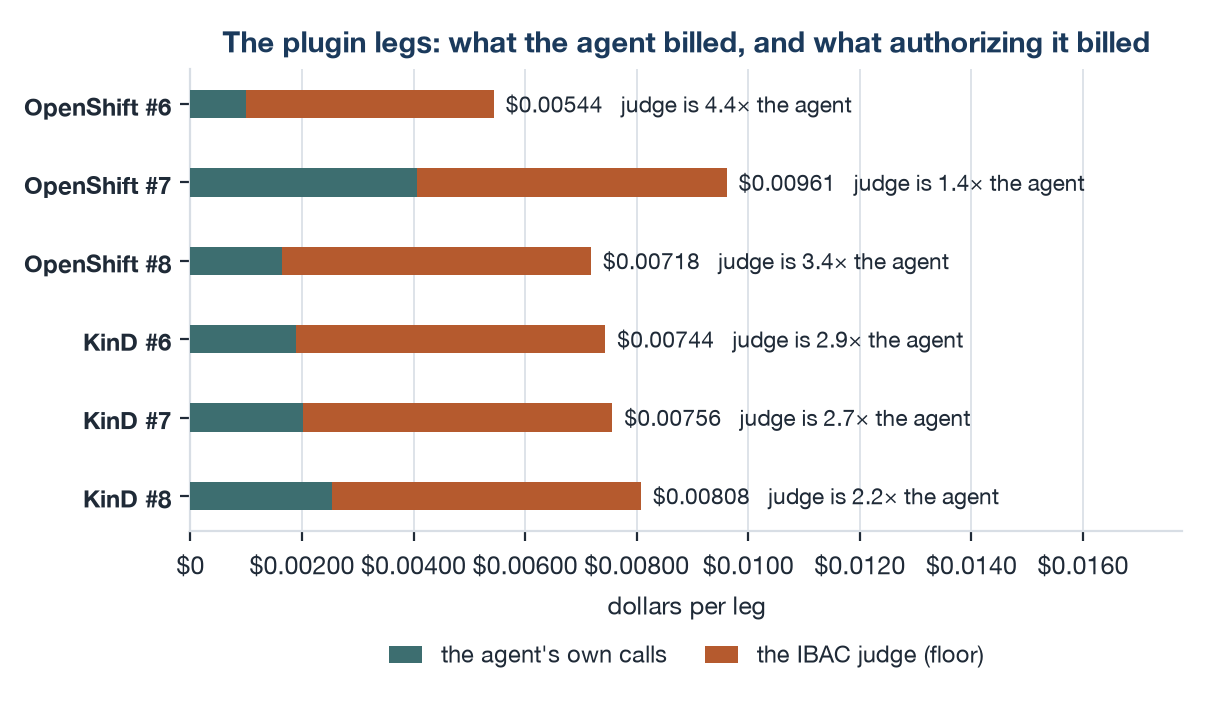
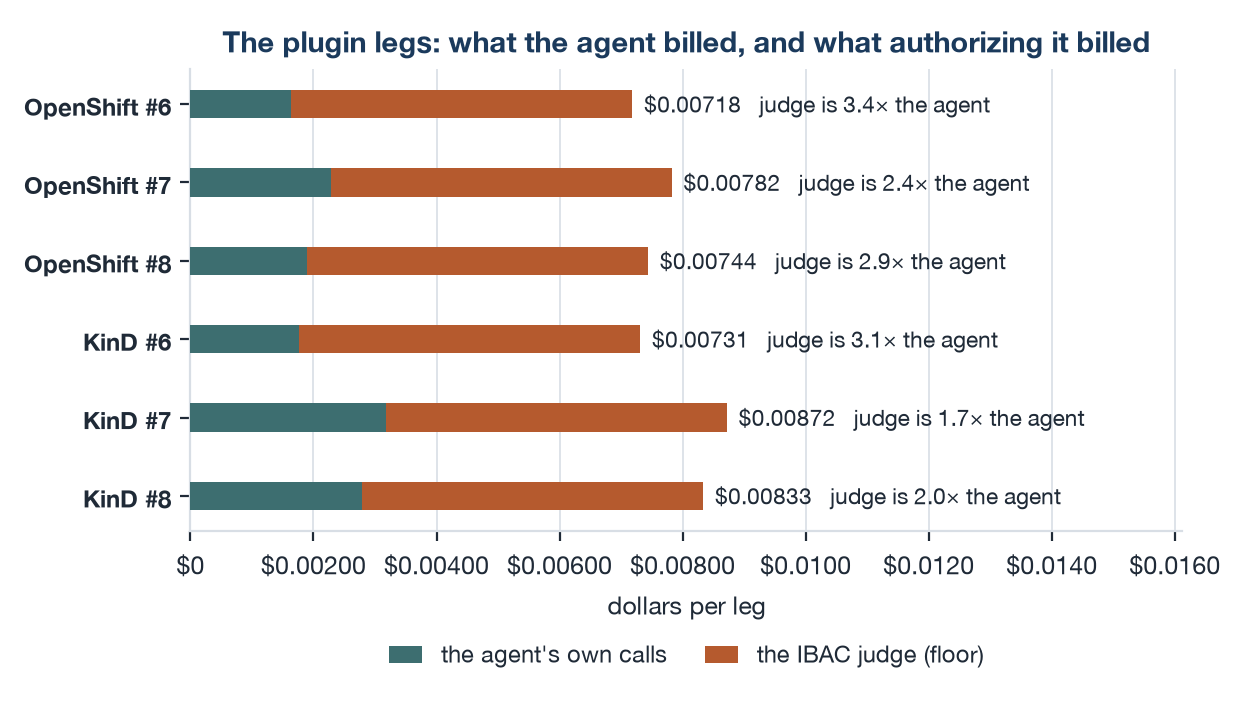
Regenerate the six cost charts on the v1.35 pair, and the text that quotes them
gen-cost-charts.py rewrites docs/img/*.png, takeaways.json (which the
deck reads) and the chart blocks in the guide and primer. The
hand-written sentences that repeat its ratios now match it: gpt-4.1
costs 4.6x gpt-5-mini on the identical five gsm8k tasks (mean over 2
legs against 8, span 3.3-6.6x), the two output bills land within 24%,
and the IBAC judge bills 1.7-3.4x what the agent does on legs #6-#8.

Assisted-By: Claude Opus 5.5 <noreply@anthropic.com>

diff --git a/docs/generate_pptx.py b/docs/generate_pptx.py
@@ -1330,14 +1330,14 @@ grid(s, inch(6.90), inch(1.30), inch(5.95), inch(2.60), [
 ], col_w=[inch(2.55), inch(1.70), inch(1.70)], font=10.5)
 
 box(s, inch(6.90), inch(4.10), inch(5.95), inch(1.75),
-    "Same five tasks: gpt-4.1 costs 4.1× gpt-5-mini",
+    "Same five tasks: gpt-4.1 costs 4.6× gpt-5-mini",
     LTPURPLE, ROSSO, font=13.5, font_color=ROSSO,
-    sub="Mean of its 2 legs against gpt-5-mini's 7; leg-to-leg the ratio spans 2.5×–6.7×, because "
+    sub="Mean of its 2 legs against gpt-5-mini's 8; leg-to-leg the ratio spans 3.3×–6.6×, because "
         "gpt-5-mini's output length swings with reasoning effort. The reasoning model answers in ONE "
         "call; gpt-4.1 needs ~3 tool round-trips. On our card the INPUT side decides it alone — 2.6× "
         "the tokens at 8× the price is a 21× input bill, and the output side cannot offset it "
-        "(gpt-5-mini emits 3.6× more output at a quarter the rate, so the two output bills land "
-        "within 10% of each other).",
+        "(gpt-5-mini emits 3.3× more output at a quarter the rate, so the two output bills land "
+        "within 24% of each other).",
     sub_color=INK)
 
 _ban = box(s, inch(0.45), inch(6.00), inch(12.4), inch(0.95),
@@ -1379,7 +1379,7 @@ box(s, inch(0.45), inch(4.55), inch(6.15), inch(2.35),
     sub="The judge makes ~1 completion per authorized tool call, on Azure/gpt-4.1 — the dearest "
         "model on the card — against a FIXED 1,577-char system prompt that does not shrink with the "
         "task. That is ≥ $0.00111 per call, which is 2.6× the entire gsm8k task it is authorizing "
-        "($0.00043), and 1.4×–4.4× the agent's whole bill across legs #6–#8. On the plugin legs IBAC "
+        "($0.00043), and 1.7×–3.4× the agent's whole bill across legs #6–#8. On the plugin legs IBAC "
         "is not overhead on the bill; it IS the bill.  tau2's user simulator is invisible the same "
         "way: same model as the agent, but inside the uninstrumented MCP pod.",
     sub_color=INK)
@@ -1463,7 +1463,7 @@ grid(s, inch(0.45), inch(1.25), inch(12.4), inch(3.30), [
      "the pipeline is stable and DETERMINISTIC: 7 of 12 legs have byte-identical input-token\n"
      "totals across two unlike clusters — the strongest like-for-like check available"),
     ("#4", "gsm8k on Azure/gpt-4.1\n(model swap, identical tasks)",
-     "the only clean model comparison in the matrix: gpt-4.1 costs 4.1× gpt-5-mini for no\n"
+     "the only clean model comparison in the matrix: gpt-4.1 costs 4.6× gpt-5-mini for no\n"
      "pass-rate gain at this difficulty, and the INPUT side decides it alone (7.7)"),
     ("#5–#8", "AuthBridge auth-only / ibac-only / full /\nfull + per-plugin override, same 5 tasks",
      "plugin cost is PLATFORM-SPECIFIC: OpenShift pays in the sidecar (+13.68 s/task), KinD in\n"

diff --git a/docs/BENCHMARKS_PRIMER.md b/docs/BENCHMARKS_PRIMER.md
@@ -459,17 +459,17 @@ IBAC judge adds.
 
 ![Money climbs the ladder faster than tokens](img/ladder-amplification.png)
 
-**Money climbs the difficulty ladder faster than tokens do: tau2 is 178× a gsm8k task in tokens but 279× in dollars, appworld is 564× a gsm8k task in tokens but 1,069× in dollars — so a budget scaled off the token ratios is short by 1.6–1.9×.**
+**Money climbs the difficulty ladder faster than tokens do: tau2 is 175× a gsm8k task in tokens but 282× in dollars, appworld is 621× a gsm8k task in tokens but 1,195× in dollars — so a budget scaled off the token ratios is short by 1.6–1.9×.**
 
-Each rung is a different model, which is why the dollar bar outruns the token bar: climbing the ladder also buys a dearer model. Wall-clock climbs SLOWEST of the three (17× tau2, 54× appworld), because the harder benchmarks parallelize their turns while their bills add up.
+Each rung is a different model, which is why the dollar bar outruns the token bar: climbing the ladder also buys a dearer model. Wall-clock climbs SLOWEST of the three (19× tau2, 87× appworld), because the harder benchmarks parallelize their turns while their bills add up.
 
-<sub>gsm8k baseline: 523 tokens, $0.00055, 4.9 s median, over 171 task rows.</sub>
+<sub>gsm8k baseline: 513 tokens, $0.00053, 2.5 s median, over 172 task rows.</sub>
 
 #### Figure 2 — Efficiency only means anything per SUCCESS
 
 ![Efficiency only means anything per SUCCESS](img/cost-per-pass.png)
 
-**Dividing by the pass rate is what turns a token count into an efficiency figure: gsm8k $0.00055 per task becomes $0.00056 per PASS; tau2 $0.1538 per task becomes $0.1846 per PASS — and appworld has no finite cost per success at all, because it passed nothing.**
+**Dividing by the pass rate is what turns a token count into an efficiency figure: gsm8k $0.00053 per task becomes $0.00054 per PASS; tau2 $0.1494 per task becomes $0.1660 per PASS — and appworld has no finite cost per success at all, because it passed nothing.**
 
 A change that halves your token use and halves your pass rate has gained you nothing, which is why we never quote tokens per task as an efficiency number on its own. The unbounded row is not a rendering artifact: it is the honest way to report a benchmark that runs to completion, records every token, and then fails evaluation.
 
@@ -547,12 +547,12 @@ input and emits roughly a third of the output. The two are close in latency (3.6
 2.5–4.0 s), so tripling the calls costs gpt-4.1 little time — the one call gpt-5-mini makes carries
 its reasoning.
 
-**gpt-4.1 costs 4.1× gpt-5-mini for the same five tasks** — mean of its 2 legs against gpt-5-mini's
-7, with the ratio spanning 2.5–6.7× depending on which pair of legs you compare, because gpt-5-mini's
+**gpt-4.1 costs 4.6× gpt-5-mini for the same five tasks** — mean of its 2 legs against gpt-5-mini's
+8, with the ratio spanning 3.3–6.6× depending on which pair of legs you compare, because gpt-5-mini's
 output length swings with how much it reasons. On our card the input side decides it single-handedly:
 2.6× the tokens at 8× the price is a **21×** input bill, which the output side cannot offset —
-gpt-5-mini emits 3.6× more output but pays a quarter the rate, so the two models' output bills are
-within 10% of each other.
+gpt-5-mini emits 3.3× more output but pays a quarter the rate, so the two models' output bills are
+within 24% of each other.
 
 **So the token ranking and the money ranking disagree, and which wins is a property of the price
 list, not of the models.** gpt-5-mini uses fewer total tokens *and* costs less here, but only because
@@ -577,7 +577,7 @@ cost per task  =  (input_tokens × P_in  +  output_tokens × P_out) / 1e6
 - **Plugins add billed calls of their own** — one IBAC judge completion per authorized tool call,
   outside the agent's spans, because the sidecar makes them and not the instrumented agent. The judge
   runs `Azure/gpt-4.1` on a fixed 1,577-char system prompt, so **≥ $0.00111 per call** — which is
-  **2.6× the entire gsm8k task it is authorizing** ($0.00043), and 1.4–4.4× the agent's whole bill
+  **2.6× the entire gsm8k task it is authorizing** ($0.00043), and 1.7–3.4× the agent's whole bill
   across legs #6–#8. On the plugin legs IBAC is not overhead on the bill; it *is* the bill. See
   [`PLUGIN_OVERHEAD.md`](PLUGIN_OVERHEAD.md).
 - **Input cost is an upper bound.** The gateway *reports* cached input
